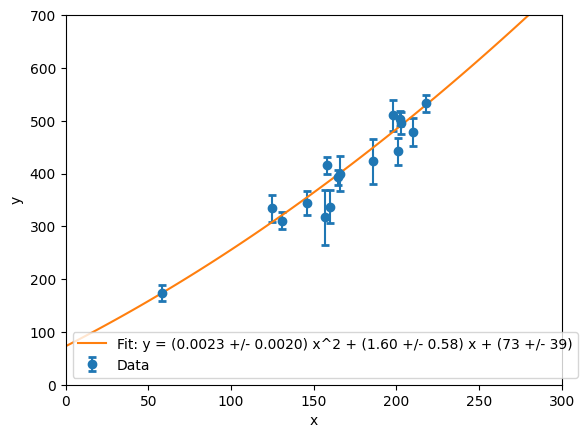
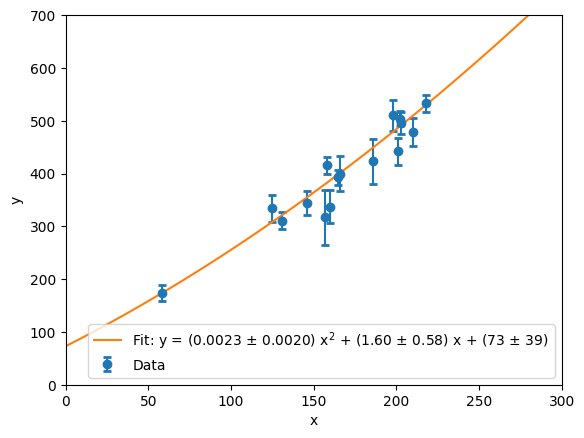
Update April 2

diff --git a/Exercise3.py b/Exercise3.py
@@ -12,19 +12,19 @@ import numpy as np
 
 
 # Data
-ID = np.array([1, 2, 3, 4, 5, 6, 7, 8, 9, 10, 11, 12, 13, 14, 15, 16, 17, 18, 19, 20])
+id = np.array([1, 2, 3, 4, 5, 6, 7, 8, 9, 10, 11, 12, 13, 14, 15, 16, 17, 18, 19, 20])
 x = np.array([201, 244, 47, 287, 203, 58, 210, 202, 198, 158, 165, 201, 157, 131, 166, 160, 186, 125, 218, 146])
 y = np.array([592, 401, 583, 402, 495, 173, 479, 504, 510, 416, 393, 442, 317, 311, 400, 337, 423, 334, 533, 344])
 sigy = np.array([61, 25, 38, 15, 21, 15, 27, 14, 30, 16, 14, 25, 52, 16, 34, 31, 42, 26, 16, 22])
 sigx = np.array([9, 4, 11, 7, 5, 9, 4, 4, 11, 7, 5, 5, 5, 6, 6, 5, 9, 8, 6, 5])
 rhoxy = np.array([-0.84, 0.31, 0.64, -0.27, -0.33, 0.67, -0.02, -0.05, -0.84, -0.69, 0.30, -0.46, -0.03, 0.50, 0.73, -0.52, 0.90, 0.40, -0.78, -0.56])
 
-ID = ID[4:].reshape(-1, 1)
+id = id[4:].reshape(-1, 1)
 x = x[4:].reshape(-1, 1)
 y = y[4:].reshape(-1, 1)
 sigy = sigy[4:]
 
-# print(ID)
+# print(id)
 # print(x)
 # print(y)
 # print(sigy)
@@ -57,7 +57,7 @@ db, dm, dq = np.sqrt(np.diag(cov_matrix))
 
 
 # Print the equation
-print(f"y = ({q:.4f} +/- {dq:.4f}) x^2 + ({b:.2f} +/- {db:.2f})x + ({m:.2f} +/- {dm:.2f})")
+print(f"\ny = ({q:.4f} ± {dq:.4f}) x² + ({m:.2f} ± {dm:.2f})x + ({b:.0f} ± {db:.0f})\n")
 
 # Plot the data and the fit
 
@@ -69,7 +69,7 @@ ylim_max = 700
 plt.errorbar(x.flatten(), y.flatten(), yerr=sigy, fmt='o', capsize=3, capthick=2, label='Data')
 x_fit = np.linspace(xlim_min, xlim_max, 100)
 y_fit = b + m * x_fit + q * x_fit**2
-plt.plot(x_fit, y_fit, label=f'Fit: y = ({q:.4f} +/- {dq:.4f}) x^2 + ({m:.2f} +/- {dm:.2f}) x + ({b:.0f} +/- {db:.0f})')
+plt.plot(x_fit, y_fit, label=f'Fit: y = ({q:.4f} ± {dq:.4f}) x$^2$ + ({m:.2f} ± {dm:.2f}) x + ({b:.0f} ± {db:.0f})')
 
 plt.xlabel('x')
 plt.ylabel('y')

diff --git a/Exercise1.py b/Exercise1.py
@@ -12,19 +12,19 @@ import numpy as np
 
 
 # Data
-ID = np.array([1, 2, 3, 4, 5, 6, 7, 8, 9, 10, 11, 12, 13, 14, 15, 16, 17, 18, 19, 20])
+id = np.array([1, 2, 3, 4, 5, 6, 7, 8, 9, 10, 11, 12, 13, 14, 15, 16, 17, 18, 19, 20])
 x = np.array([201, 244, 47, 287, 203, 58, 210, 202, 198, 158, 165, 201, 157, 131, 166, 160, 186, 125, 218, 146])
 y = np.array([592, 401, 583, 402, 495, 173, 479, 504, 510, 416, 393, 442, 317, 311, 400, 337, 423, 334, 533, 344])
 sigy = np.array([61, 25, 38, 15, 21, 15, 27, 14, 30, 16, 14, 25, 52, 16, 34, 31, 42, 26, 16, 22])
 sigx = np.array([9, 4, 11, 7, 5, 9, 4, 4, 11, 7, 5, 5, 5, 6, 6, 5, 9, 8, 6, 5])
 rhoxy = np.array([-0.84, 0.31, 0.64, -0.27, -0.33, 0.67, -0.02, -0.05, -0.84, -0.69, 0.30, -0.46, -0.03, 0.50, 0.73, -0.52, 0.90, 0.40, -0.78, -0.56])
 
-ID = ID[4:].reshape(-1, 1)
+id = id[4:].reshape(-1, 1)
 x = x[4:].reshape(-1, 1)
 y = y[4:].reshape(-1, 1)
 sigy = sigy[4:]
 
-# print(ID)
+# print(id)
 # print(x)
 # print(y)
 # print(sigy)
@@ -55,7 +55,8 @@ db, dm = np.sqrt(np.diag(cov_matrix))
 
 
 # Print the equation
-print(f"y = ({b:.2f} +/- {db:.2f})x + ({m:.2f} +/- {dm:.2f})")
+print(f"\ny = ({m:.2f} ± {dm:.2f})x + ({b:.2f} ± {db:.2f})\n")
+
 
 # Plot the data and the fit
 
@@ -67,7 +68,7 @@ ylim_max = 700
 plt.errorbar(x.flatten(), y.flatten(), yerr=sigy, fmt='o', capsize=3, capthick=2, label='Data')
 x_fit = np.linspace(xlim_min, xlim_max, 100)
 y_fit = b + m * x_fit
-plt.plot(x_fit, y_fit, label=f'Fit: y = ({m:.2f} +/- {dm:.2f}) x + ({b:.0f} +/- {db:.0f})')
+plt.plot(x_fit, y_fit, label=f'Fit: y = ({m:.2f} ± {dm:.2f}) x + ({b:.0f} ± {db:.0f})')
 
 plt.xlabel('x')
 plt.ylabel('y')

diff --git a/Exercise2.py b/Exercise2.py
@@ -12,19 +12,19 @@ import numpy as np
 
 
 # Data
-ID = np.array([1, 2, 3, 4, 5, 6, 7, 8, 9, 10, 11, 12, 13, 14, 15, 16, 17, 18, 19, 20])
+id = np.array([1, 2, 3, 4, 5, 6, 7, 8, 9, 10, 11, 12, 13, 14, 15, 16, 17, 18, 19, 20])
 x = np.array([201, 244, 47, 287, 203, 58, 210, 202, 198, 158, 165, 201, 157, 131, 166, 160, 186, 125, 218, 146])
 y = np.array([592, 401, 583, 402, 495, 173, 479, 504, 510, 416, 393, 442, 317, 311, 400, 337, 423, 334, 533, 344])
 sigy = np.array([61, 25, 38, 15, 21, 15, 27, 14, 30, 16, 14, 25, 52, 16, 34, 31, 42, 26, 16, 22])
 sigx = np.array([9, 4, 11, 7, 5, 9, 4, 4, 11, 7, 5, 5, 5, 6, 6, 5, 9, 8, 6, 5])
 rhoxy = np.array([-0.84, 0.31, 0.64, -0.27, -0.33, 0.67, -0.02, -0.05, -0.84, -0.69, 0.30, -0.46, -0.03, 0.50, 0.73, -0.52, 0.90, 0.40, -0.78, -0.56])
 
-ID = ID.reshape(-1, 1)
+id = id.reshape(-1, 1)
 x = x.reshape(-1, 1)
 y = y.reshape(-1, 1)
 sigy = sigy
 
-# print(ID)
+# print(id)
 # print(x)
 # print(y)
 # print(sigy)
@@ -55,7 +55,7 @@ db, dm = np.sqrt(np.diag(cov_matrix))
 
 
 # Print the equation
-print(f"y = ({b:.2f} +/- {db:.2f})x + ({m:.2f} +/- {dm:.2f})")
+print(f"\ny = ({m:.2f} ± {dm:.2f})x + ({b:.0f} ± {db:.0f})\n")
 
 # Plot the data and the fit
 
@@ -67,7 +67,7 @@ ylim_max = 700
 plt.errorbar(x.flatten(), y.flatten(), yerr=sigy, fmt='o', capsize=3, capthick=2, label='Data')
 x_fit = np.linspace(xlim_min, xlim_max, 100)
 y_fit = b + m * x_fit
-plt.plot(x_fit, y_fit, label=f'Fit: y = ({m:.2f} +/- {dm:.2f}) x + ({b:.0f} +/- {db:.0f})')
+plt.plot(x_fit, y_fit, label=f'Fit: y = ({m:.2f} ± {dm:.2f}) x + ({b:.0f} ± {db:.0f})')
 
 plt.xlabel('x')
 plt.ylabel('y')
